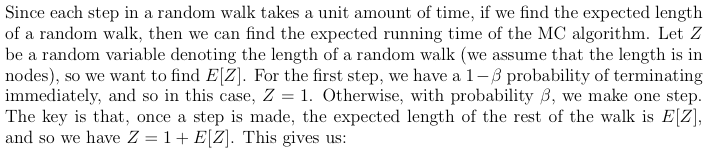
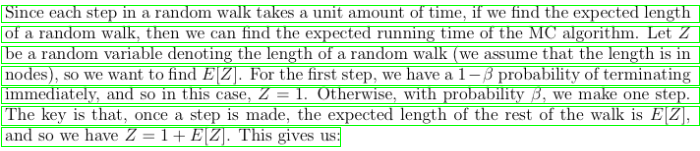
Added pictures for presentation demo.

diff --git a/itl_paragraph.py b/itl_paragraph.py
@@ -5,20 +5,27 @@ import numpy as np
 import sys
 
 DEBUG = False
-IMAGE_FILE = 'images/paragraph1.png'
+IMAGE_FILE = 'images/paragraph2.png'
 [IMAGE_NAME, EXTENSION] = IMAGE_FILE.split('.')
+
+STD_WIDTH = 700
 
 # Paragraph image img
 def parseParagraph(img):
+    # Standardize paragraph to have a width of STD_WIDTH pixels
+    w = img.shape[1]
+    scaleFactor = float(STD_WIDTH) / w
+    img = cv2.resize(img, (0,0), fx=scaleFactor, fy=scaleFactor)
+
     img_gray = cv2.cvtColor(img, cv.CV_BGR2GRAY)
     blur = cv2.GaussianBlur(img_gray, (5, 5), 0)
-    img_lap = cv2.Laplacian(img_gray, cv2.CV_8U)
+    img_lap = cv2.Laplacian(blur, cv2.CV_8U)
     unused, img_threshold = cv2.threshold(img_lap, 0, 255, cv.CV_THRESH_OTSU + cv.CV_THRESH_BINARY)
     if DEBUG:
         cv2.imwrite(IMAGE_NAME + '-thresh.' + EXTENSION, img_threshold)
 
     # Blur in the horizontal direction to get lines
-    element = cv2.getStructuringElement(cv2.MORPH_RECT, (25, 1))
+    element = cv2.getStructuringElement(cv2.MORPH_RECT, (25, 3))
     morphed = cv2.morphologyEx(img_threshold, cv.CV_MOP_CLOSE, element)
     if DEBUG:
         cv2.imwrite(IMAGE_NAME + '-morph.' + EXTENSION, morphed)

diff --git a/itl_line.py b/itl_line.py
@@ -5,7 +5,7 @@ import numpy as np
 import sys
 
 DEBUG = False
-IMAGE_FILE = 'images/line1.png'
+IMAGE_FILE = 'images/line2.png'
 [IMAGE_NAME, EXTENSION] = IMAGE_FILE.split('.')
 
 STD_HEIGHT = 20
